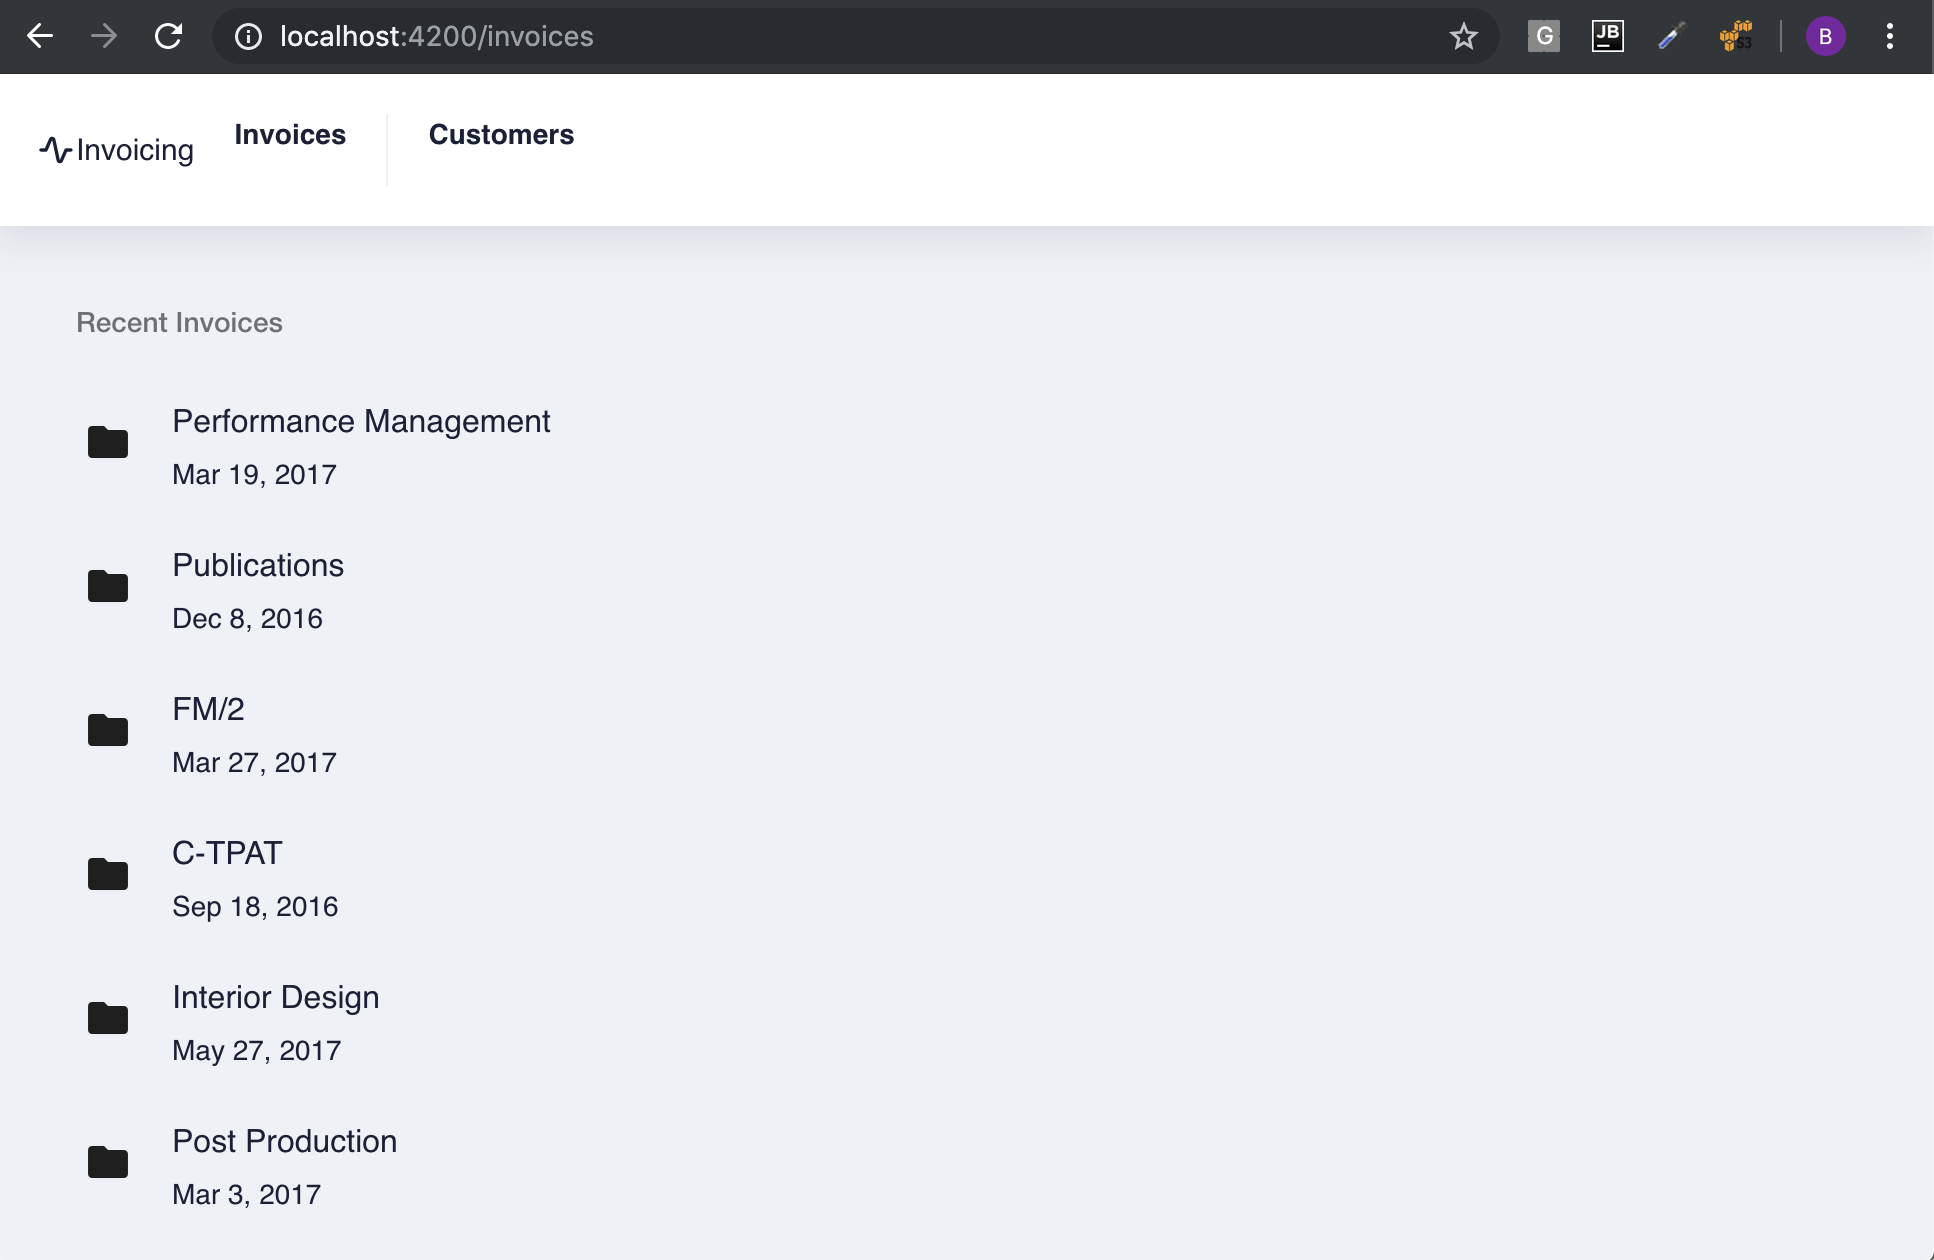
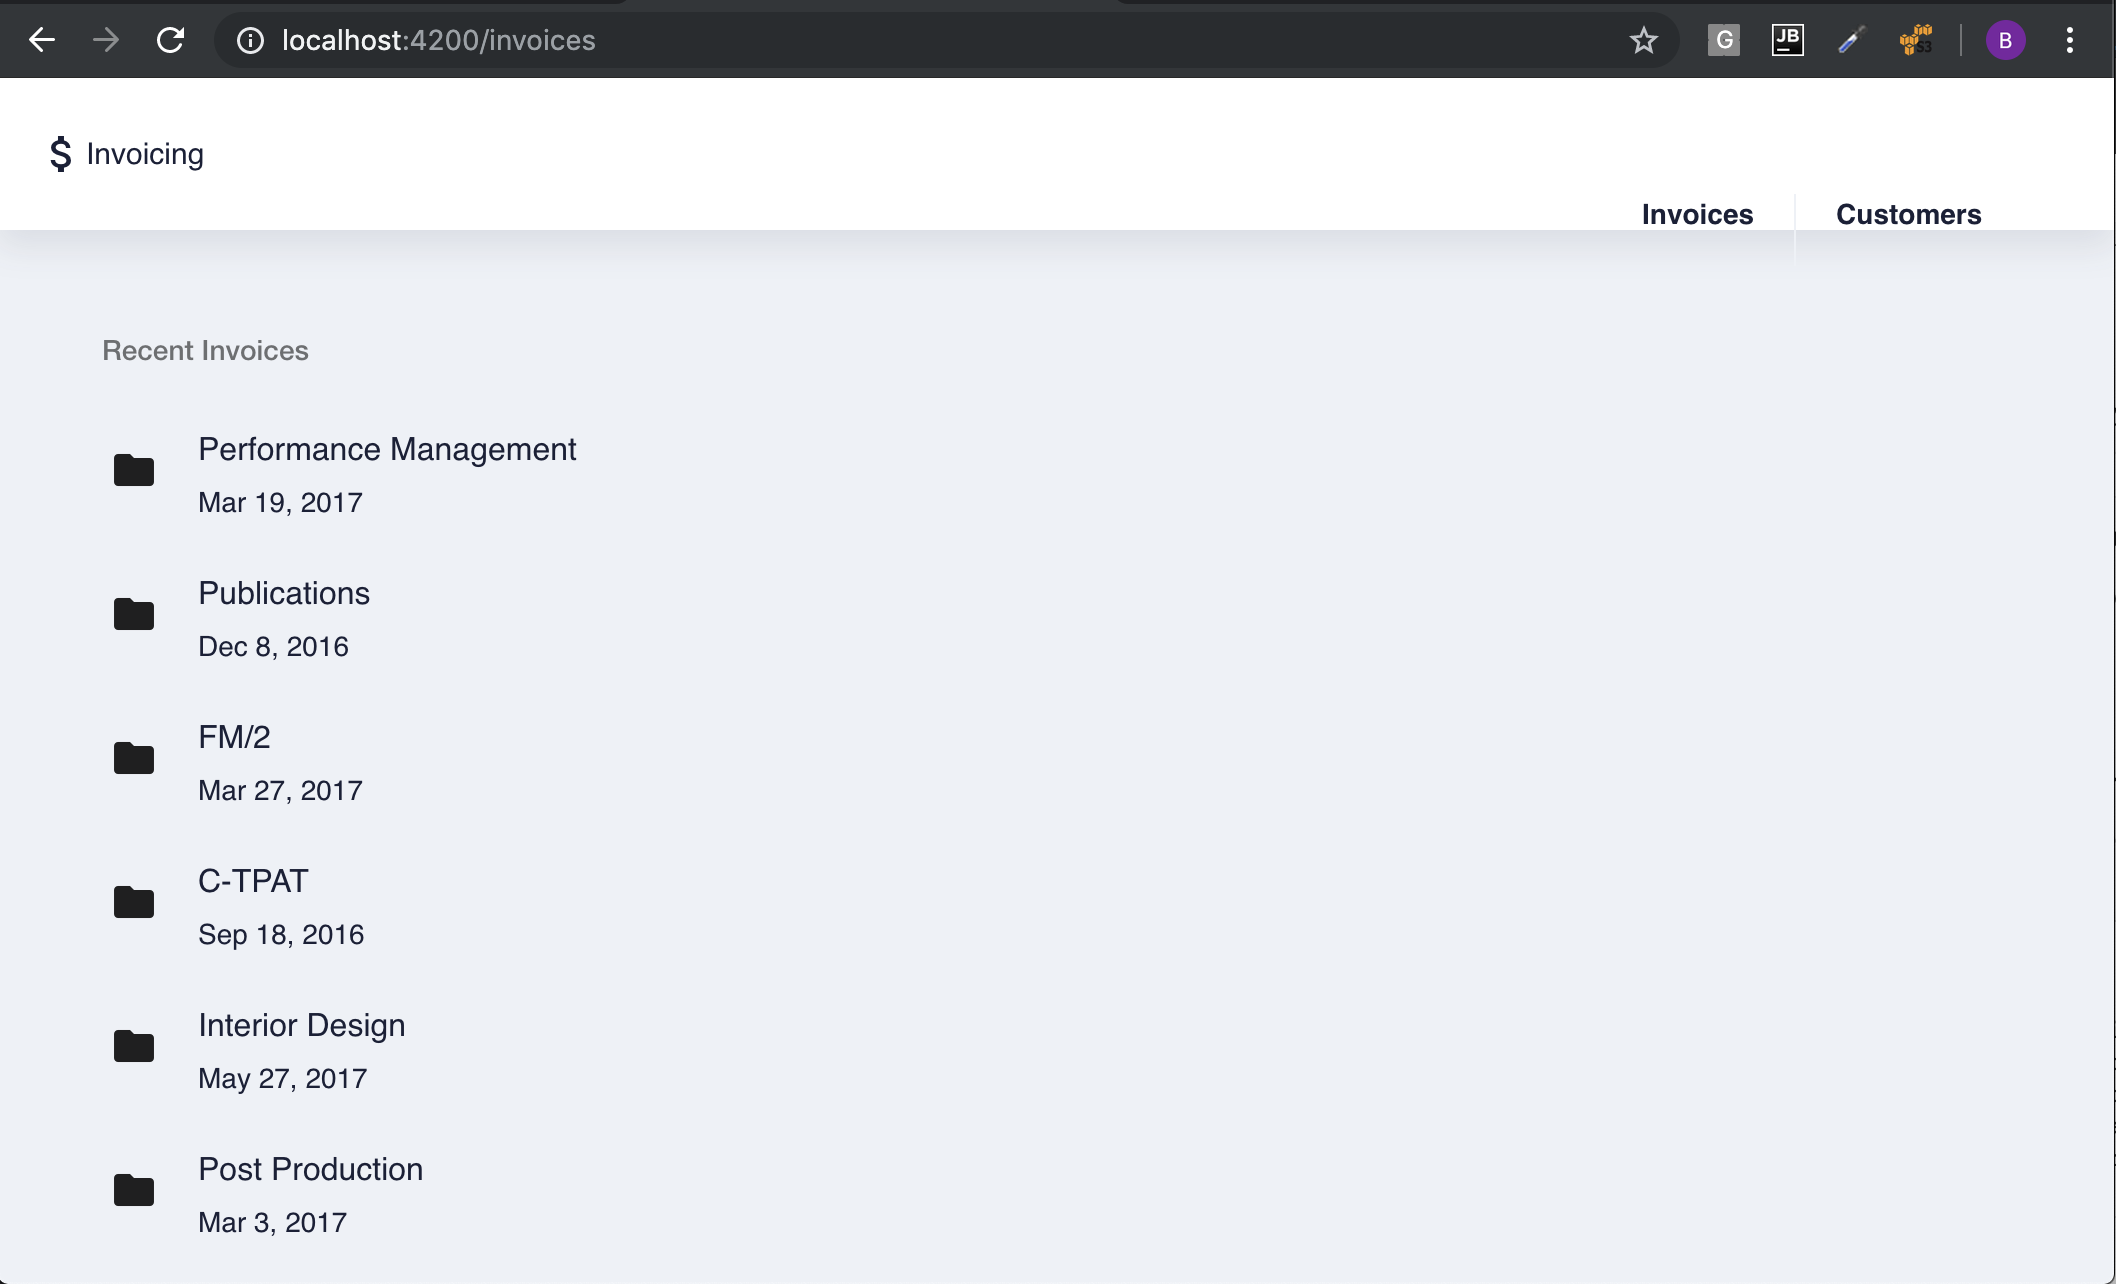
.

diff --git a/9.Invoice/b300098957/src/app/app.component.html b/9.Invoice/b300098957/src/app/app.component.html
@@ -3,15 +3,15 @@
   <nb-layout-header fixed>
   <!-- Insert header here -->
     <!--<nb-sidebar >-->
-      <nb-icon icon="activity"></nb-icon>Invoicing
+    <mat-icon>attach_money</mat-icon>Invoicing
     <!--</nb-sidebar>-->
 
-    <!--<nb-sidebar end>-->
+    <nb-sidebar end>
       <nb-actions size="medium" fullWidth="false">
         <nb-action class="control-item" routerLink="/invoices">Invoices</nb-action>
         <nb-action class="control-item" routerLink="/customers/">Customers</nb-action>
       </nb-actions>
-    <!--</nb-sidebar>-->
+    </nb-sidebar>
 
   </nb-layout-header>
 
